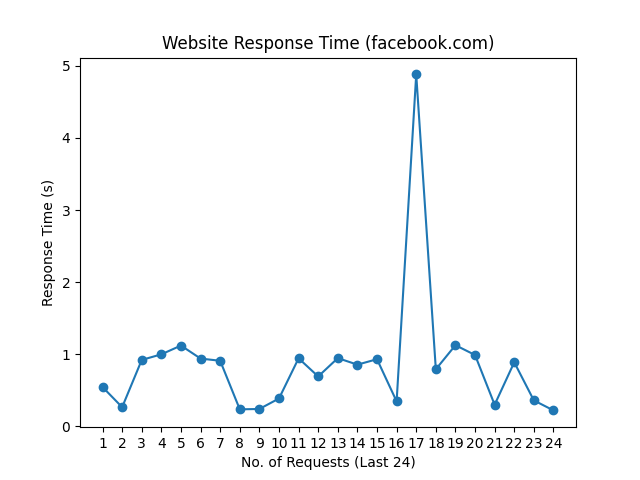
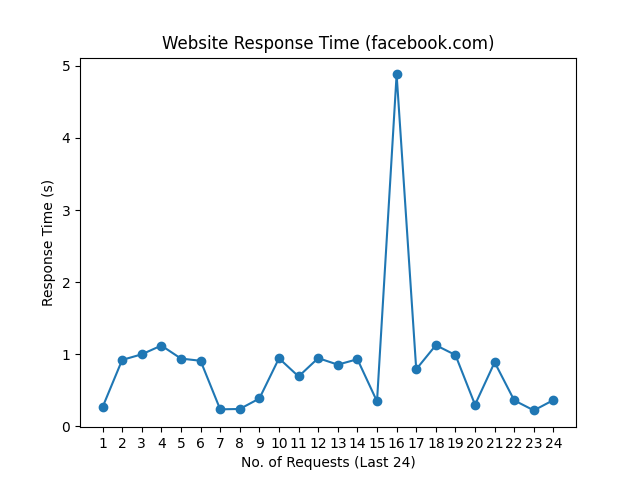
update README.md, history and graph

Changed region(s): [[0.1562, 0.125, 0.875, 0.875]]

diff --git a/README.md b/README.md
@@ -1,10 +1,10 @@
 # Web Monitoring
 
-Last Checked: 29/03/2024 09:00
+Last Checked: 30/03/2024 08:58
 
 | Website | Response Time (s) | Status | Avg Uptime (%) |
 |---------|-------------------|--------|----------------|
 | www.thiswebsiteisdown.net | 0 <br> <img src="graph/thiswebsiteisdown.net.png" alt="Graph" width="200" height="200">  | ❌ Down | 0.00 |
-| www.netflix.com | 0.420274 <br> <img src="graph/netflix.com.png" alt="Graph" width="200" height="200">  | ✅ Up | 100.00 |
-| www.google.com | 0.162103 <br> <img src="graph/google.com.png" alt="Graph" width="200" height="200">  | ✅ Up | 100.00 |
-| www.facebook.com | 0.220173 <br> <img src="graph/facebook.com.png" alt="Graph" width="200" height="200">  | ✅ Up | 100.00 |
+| www.netflix.com | 0.589095 <br> <img src="graph/netflix.com.png" alt="Graph" width="200" height="200">  | ✅ Up | 100.00 |
+| www.google.com | 0.105350 <br> <img src="graph/google.com.png" alt="Graph" width="200" height="200">  | ✅ Up | 100.00 |
+| www.facebook.com | 0.363819 <br> <img src="graph/facebook.com.png" alt="Graph" width="200" height="200">  | ✅ Up | 100.00 |
